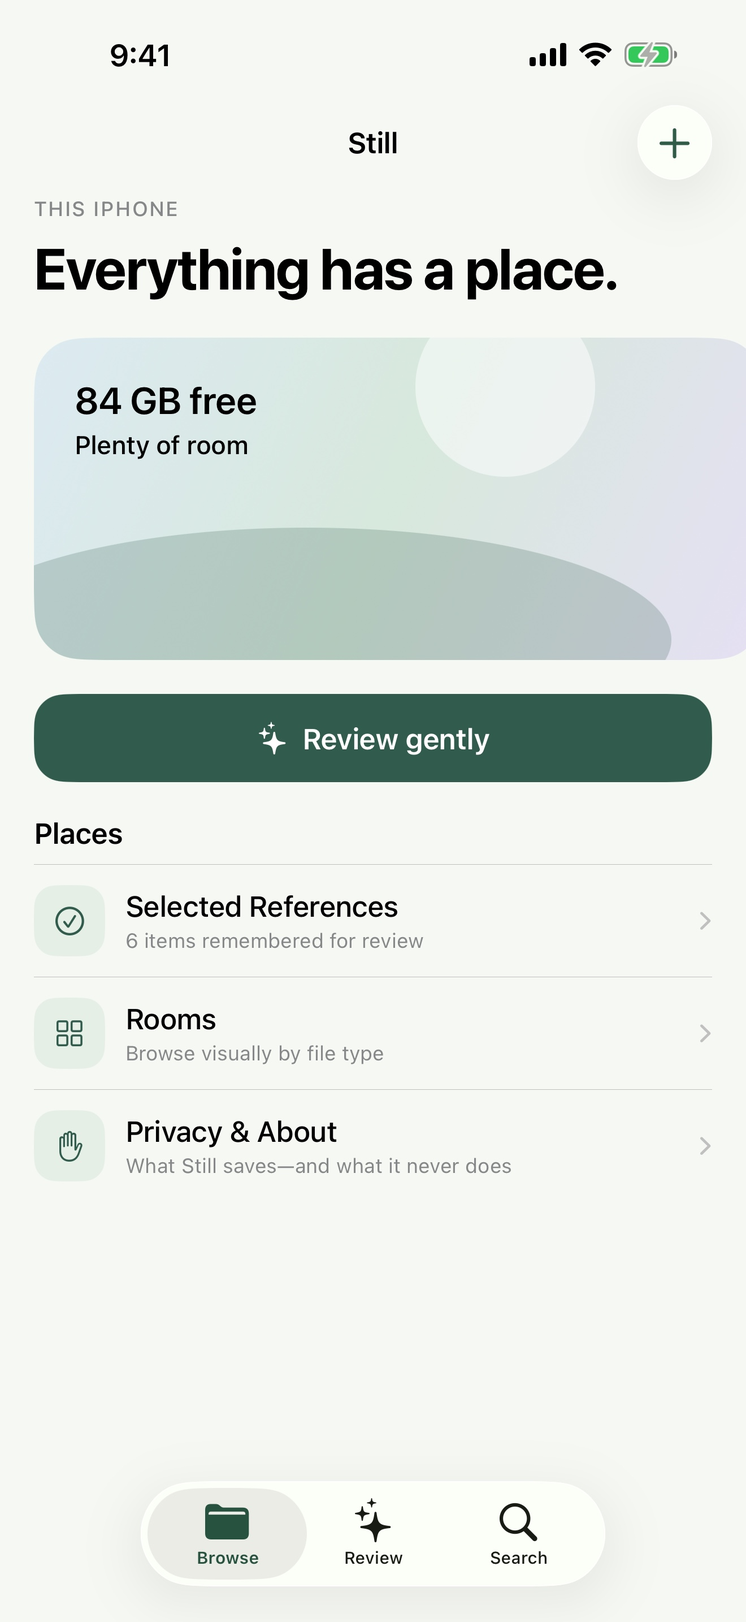
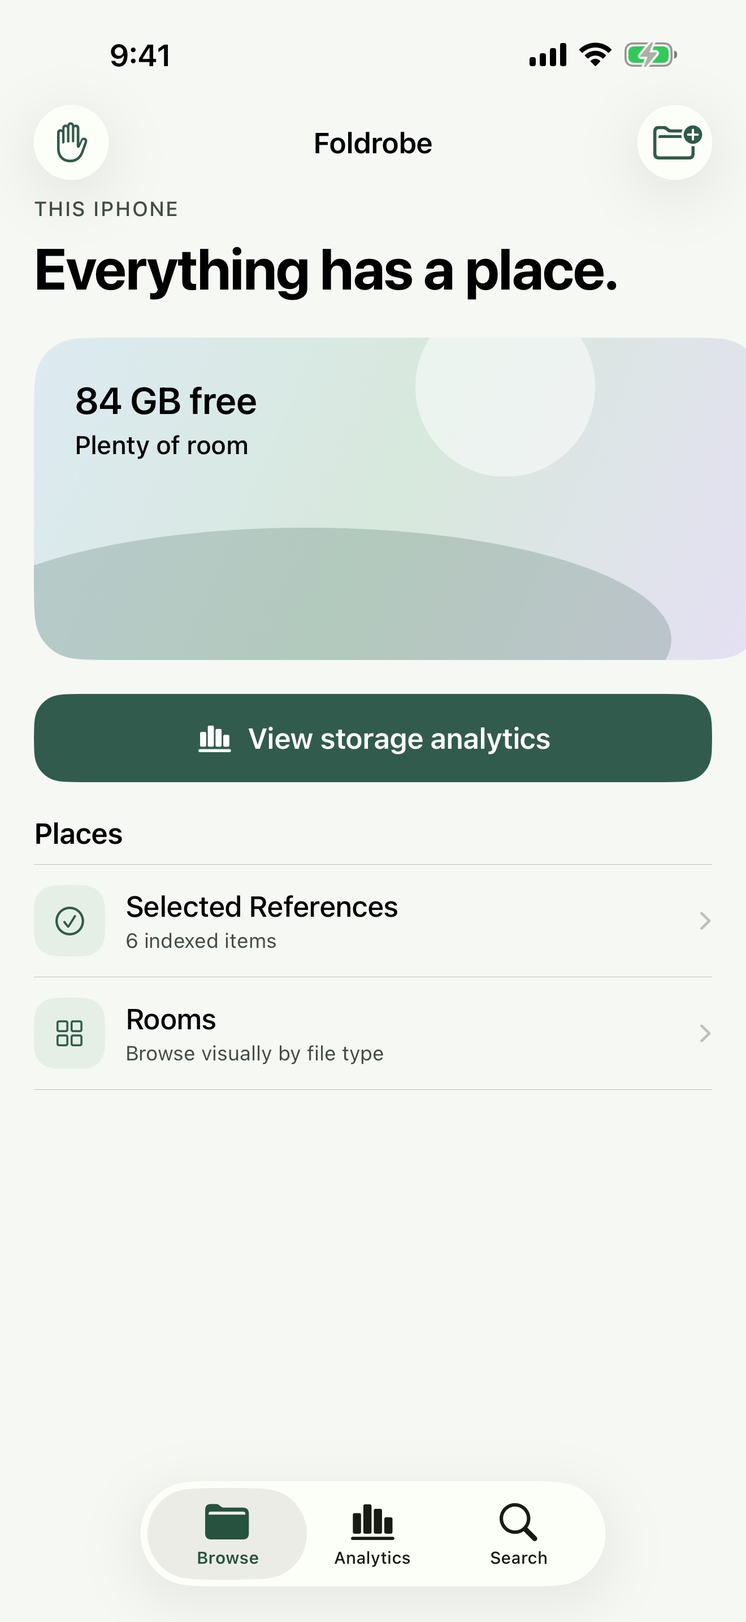
Rebrand public site to Foldrobe

diff --git a/index.html b/index.html
@@ -1,1 +1,1 @@
-<!DOCTYPE html><html lang="en"><head><meta charSet="utf-8"/><meta name="viewport" content="width=device-width, initial-scale=1"/><link rel="stylesheet" href="/still/_next/static/css/index.Bm9g5YV3.css" data-rsc-css-href="/still/_next/static/css/index.Bm9g5YV3.css" data-precedence="vite-rsc/importer-resources"/><title>Still — Calm File Review for iPhone</title><meta name="description" content="Review selected file details without the overwhelm. Still brings focused decisions, helpful filters, and on-device privacy to your iPhone."/><meta name="application-name" content="Still"/><meta property="og:title" content="Still — Calm File Review for iPhone"/><meta property="og:description" content="Make room for a clear decision."/><meta property="og:site_name" content="Still"/><meta property="og:type" content="website"/><meta property="og:image" content="https://anuljain17.github.io/still/og.png"/><meta property="og:image:width" content="1200"/><meta property="og:image:height" content="630"/><meta property="og:image:alt" content="Still — Make room for a clear decision."/><meta name="twitter:card" content="summary_large_image"/><meta name="twitter:title" content="Still — Calm File Review for iPhone"/><meta name="twitter:description" content="Make room for a clear decision."/><meta name="twitter:image" content="https://anuljain17.github.io/still/og.png"/><link rel="icon" href="/still/images/still-icon.png"/><link rel="apple-touch-icon" href="/still/images/still-icon.png"/><meta name="theme-color" content="#f4f0e7"/><meta name="color-scheme" content="light dark"/></head><body><a class="skip-link" href="#main">Skip to content</a><header class="site-header"><div class="shell header-inner"><a href="/still/" class="brand" aria-label="Still home"><img src="/still/images/still-icon.png" alt="" width="40" height="40" loading="lazy" decoding="async" data-nimg="1"/><span>Still</span></a><nav aria-label="Primary navigation"><a href="/still/#principles-title">Why Still</a><a href="/still/privacy/">Privacy</a><a href="/still/support/">Support</a></nav></div></header><main id="main"><section class="hero shell" aria-labelledby="hero-title"><div class="hero-copy"><p class="eyebrow">A quieter file review</p><h1 id="hero-title">Make room for a clear decision.</h1><p class="hero-intro">Still helps you review the files you choose, one at a time—so you can understand what matters before changing anything.</p><div class="hero-actions"><span class="button button-disabled" aria-label="Coming soon to the App Store">Coming soon to the App Store</span><p class="price">US $1.00 · One-time purchase</p></div></div><div class="hero-art" aria-label="Still app preview"><div class="sun" aria-hidden="true"></div><div class="phone phone-front"><img src="/still/images/still-browse.jpg" alt="Still Browse screen with six selected references and no cleanup controls" width="1320" height="2868" loading="eager" fetchPriority="high" decoding="async" data-nimg="1"/></div><div class="soft-shadow" aria-hidden="true"></div></div></section><section class="principles shell" aria-labelledby="principles-title"><div class="section-heading"><p class="eyebrow">A calmer rhythm</p><h2 id="principles-title">Useful, without asking for all your attention.</h2></div><div class="feature-grid"><article class="feature"><span class="feature-number" aria-hidden="true">01</span><h3>Less noise. More clarity.</h3><p>Still gives selected files room to breathe. A calm overview surfaces useful details without covering the screen in controls, charts, and warnings.</p></article><article class="feature"><span class="feature-number" aria-hidden="true">02</span><h3>One gentle decision at a time.</h3><p>Keep it. Return later. Set it aside. Still turns an intimidating backlog into a sequence of small, understandable choices—with Undo close by.</p></article><article class="feature"><span class="feature-number" aria-hidden="true">03</span><h3>Find what matters.</h3><p>Search by name or narrow the view by type, age, size, location, and download status. Choose a practical list or browse visual Rooms.</p></article></div></section><section class="review-band" aria-labelledby="review-title"><div class="shell review-layout"><div class="review-visual"><div class="phone phone-review"><img src="/still/images/still-review.jpg" alt="Still focused review showing one selected video and clear Keep, Later, and Set Aside decisions" width="1320" height="2868" loading="lazy" decoding="async" data-nimg="1"/></div></div><div class="review-copy"><p class="eyebrow">Focused review</p><h2 id="review-title">One file. One clear choice.</h2><p>Instead of a wall of checkboxes, Still shows the item that needs your attention now. Keep it, come back later, or set the decision aside—with a clear path back.</p><ul class="quiet-list"><li><span>Keep</span> Leave the original exactly where it is.</li><li><span>Later</span> Pause without losing your place.</li><li><span>Set Aside</span> Mark a decision without changing the file.</li></ul></div></div></section><section class="clarity shell" aria-labelledby="clarity-title"><div class="clarity-copy"><p class="eyebrow">Before anything changes</p><h2 id="clarity-title">Understand what Still can—and cannot—do.</h2><p>A plain-language summary keeps review decisions separate from file operations. Anything held by an external provider stays untouched.</p></div><aside class="truth-card" aria-labelledby="today-title"><span class="truth-mark" aria-hidden="true">✓</span><h3 id="today-title">What Still does today</h3><p>Still reviews metadata for files and folders you explicitly select through Apple’s document picker. References and review progress are remembered between launches in private app storage on your iPhone. If a provider withdraws access, Still asks you to select the item again.</p><p>Still does not delete or move files held by iCloud Drive or other document providers. “Set Aside” creates a review decision; complete any change later in Apple Files or the provider’s app.</p></aside></section><section class="privacy-band" aria-labelledby="privacy-title"><div class="shell privacy-layout"><div><p class="eyebrow eyebrow-light">Private by design</p><h2 id="privacy-title">Your files are not our business.</h2></div><div class="privacy-copy"><p>Still has no account, ads, or analytics. Selected file details are processed on your iPhone and are not uploaded.</p><a class="text-link text-link-light" href="/still/privacy/">Read the privacy policy <span aria-hidden="true">↗</span></a></div></div></section><section class="accessibility shell" aria-labelledby="accessibility-title"><p class="eyebrow">Comfort in every mode</p><h2 id="accessibility-title">Designed for iPhone—and for you.</h2><p>Dynamic Type, VoiceOver, dark mode, Reduce Motion, and Reduce Transparency are part of the design, not an afterthought.</p><div class="accessibility-tags" aria-label="Supported accessibility features"><span>VoiceOver</span><span>Dynamic Type</span><span>Dark mode</span><span>Reduced motion</span></div></section></main><footer class="site-footer"><div class="shell footer-inner"><div><a href="/still/" class="brand brand-footer" aria-label="Still home"><img src="/still/images/still-icon.png" alt="" width="36" height="36" loading="lazy" decoding="async" data-nimg="1"/><span>Still</span></a><p>A calmer way to review the files you choose.</p></div><div class="footer-links" aria-label="Footer navigation"><a href="/still/privacy/">Privacy</a><a href="/still/support/">Support</a></div><p class="copyright">© 2026 Anul Jain. All rights reserved.</p></div></footer></body></html>
+<!DOCTYPE html><html lang="en"><head><meta charSet="utf-8"/><meta name="viewport" content="width=device-width, initial-scale=1"/><link rel="stylesheet" href="/still/_next/static/css/index.Bm9g5YV3.css" data-rsc-css-href="/still/_next/static/css/index.Bm9g5YV3.css" data-precedence="vite-rsc/importer-resources"/><title>Foldrobe — File Organizer for iPhone</title><meta name="description" content="Allow folders once, understand what uses space, preview images, and manage matching files privately on your iPhone."/><meta name="application-name" content="Foldrobe"/><meta property="og:title" content="Foldrobe — File Organizer for iPhone"/><meta property="og:description" content="Everything in its place."/><meta property="og:site_name" content="Foldrobe"/><meta property="og:type" content="website"/><meta property="og:image" content="https://anuljain17.github.io/still/og.png"/><meta property="og:image:width" content="1200"/><meta property="og:image:height" content="630"/><meta property="og:image:alt" content="Foldrobe — Everything in its place."/><meta name="twitter:card" content="summary_large_image"/><meta name="twitter:title" content="Foldrobe — File Organizer for iPhone"/><meta name="twitter:description" content="Everything in its place."/><meta name="twitter:image" content="https://anuljain17.github.io/still/og.png"/><link rel="icon" href="/still/images/still-icon.png"/><link rel="apple-touch-icon" href="/still/images/still-icon.png"/><meta name="theme-color" content="#f4f0e7"/><meta name="color-scheme" content="light dark"/></head><body><a class="skip-link" href="#main">Skip to content</a><header class="site-header"><div class="shell header-inner"><a href="/still/" class="brand" aria-label="Foldrobe home"><img src="/still/images/still-icon.png" alt="" width="40" height="40" loading="lazy" decoding="async" data-nimg="1"/><span>Foldrobe</span></a><nav aria-label="Primary navigation"><a href="/still/#principles-title">Why Foldrobe</a><a href="/still/privacy/">Privacy</a><a href="/still/support/">Support</a></nav></div></header><main id="main"><section class="hero shell" aria-labelledby="hero-title"><div class="hero-copy"><p class="eyebrow">A digital wardrobe for your files</p><h1 id="hero-title">Everything in its place.</h1><p class="hero-intro">Foldrobe indexes the folders you allow, explains what is using space, and helps you manage clutter in deliberate batches.</p><div class="hero-actions"><span class="button button-disabled" aria-label="Coming soon to the App Store">Coming soon to the App Store</span><p class="price">US $1.00 · One-time purchase</p></div></div><div class="hero-art" aria-label="Foldrobe app preview"><div class="sun" aria-hidden="true"></div><div class="phone phone-front"><img src="/still/images/still-browse.jpg" alt="Foldrobe Browse screen showing indexed file locations" width="1320" height="2868" loading="eager" fetchPriority="high" decoding="async" data-nimg="1"/></div><div class="soft-shadow" aria-hidden="true"></div></div></section><section class="principles shell" aria-labelledby="principles-title"><div class="section-heading"><p class="eyebrow">From folder to insight</p><h2 id="principles-title">Less hunting. Better decisions.</h2></div><div class="feature-grid"><article class="feature"><span class="feature-number" aria-hidden="true">01</span><h3>Allow a folder once.</h3><p>Choose a folder with Apple’s secure picker. Foldrobe watches it while active and catches up automatically when you return.</p></article><article class="feature"><span class="feature-number" aria-hidden="true">02</span><h3>See what uses your space.</h3><p>Storage analytics rank large and old files, estimate cleanup opportunities, and flag possible duplicates by matching filename and size.</p></article><article class="feature"><span class="feature-number" aria-hidden="true">03</span><h3>Act on the whole result.</h3><p>Select files to copy, move, cut and paste, rename, or delete after a clear confirmation. Image previews help you verify first.</p></article></div></section><section class="review-band" aria-labelledby="analytics-title"><div class="shell review-layout"><div class="review-visual"><div class="phone phone-review"><img src="/still/images/still-review.jpg" alt="Foldrobe storage analytics ranking files by size and age" width="1320" height="2868" loading="lazy" decoding="async" data-nimg="1"/></div></div><div class="review-copy"><p class="eyebrow">Storage analytics</p><h2 id="analytics-title">Know what is worth checking.</h2><p>Foldrobe turns file metadata into practical cleanup signals without uploading your index or pretending that every old file should go.</p><ul class="quiet-list"><li><span>Largest</span> Start with the files using the most space.</li><li><span>Oldest</span> Surface files untouched for at least 180 days.</li><li><span>Duplicates</span> Check files with the same name and size.</li></ul></div></div></section><section class="clarity shell" aria-labelledby="clarity-title"><div class="clarity-copy"><p class="eyebrow">Permission before indexing</p><h2 id="clarity-title">You choose what Foldrobe can see.</h2><p>iOS does not allow a third-party app to scan the entire phone. You grant access to folders through Apple’s secure system picker.</p></div><aside class="truth-card" aria-labelledby="today-title"><span class="truth-mark" aria-hidden="true">✓</span><h3 id="today-title">What Foldrobe does today</h3><p>Foldrobe recursively indexes accessible files in each folder you allow. It watches for changes while active and securely remembers each folder in private app storage so it can catch up after a relaunch.</p><p>Search &amp; Manage can copy or move a selection, keep cut files ready for Paste, rename one file, or delete selected files and filename matches. Existing destination files are never overwritten.</p></aside></section><section class="privacy-band" aria-labelledby="privacy-title"><div class="shell privacy-layout"><div><p class="eyebrow eyebrow-light">Private by design</p><h2 id="privacy-title">Your files are not our business.</h2></div><div class="privacy-copy"><p>Foldrobe has no account, ads, or behavioral tracking. File metadata and image previews are processed on your iPhone and are not uploaded.</p><a class="text-link text-link-light" href="/still/privacy/">Read the privacy policy <span aria-hidden="true">↗</span></a></div></div></section><section class="accessibility shell" aria-labelledby="accessibility-title"><p class="eyebrow">Comfort in every mode</p><h2 id="accessibility-title">Designed for iPhone—and for you.</h2><p>Dynamic Type, VoiceOver, dark mode, Reduce Motion, and Reduce Transparency are part of the design, not an afterthought.</p><div class="accessibility-tags" aria-label="Supported accessibility features"><span>VoiceOver</span><span>Dynamic Type</span><span>Dark mode</span><span>Reduced motion</span></div></section></main><footer class="site-footer"><div class="shell footer-inner"><div><a href="/still/" class="brand brand-footer" aria-label="Foldrobe home"><img src="/still/images/still-icon.png" alt="" width="36" height="36" loading="lazy" decoding="async" data-nimg="1"/><span>Foldrobe</span></a><p>A digital wardrobe for the folders you choose.</p></div><div class="footer-links" aria-label="Footer navigation"><a href="/still/privacy/">Privacy</a><a href="/still/support/">Support</a></div><p class="copyright">© 2026 Anul Jain. All rights reserved.</p></div></footer></body></html>

diff --git a/privacy/index.html b/privacy/index.html
@@ -1,1 +1,1 @@
-<!DOCTYPE html><html lang="en"><head><meta charSet="utf-8"/><meta name="viewport" content="width=device-width, initial-scale=1"/><link rel="stylesheet" href="/still/_next/static/css/index.Bm9g5YV3.css" data-rsc-css-href="/still/_next/static/css/index.Bm9g5YV3.css" data-precedence="vite-rsc/importer-resources"/><title>Privacy Policy — Still</title><meta name="description" content="How Still handles selected file metadata on your iPhone."/><meta name="application-name" content="Still"/><meta property="og:title" content="Still — Calm File Review for iPhone"/><meta property="og:description" content="Make room for a clear decision."/><meta property="og:site_name" content="Still"/><meta property="og:type" content="website"/><meta property="og:image" content="https://anuljain17.github.io/still/og.png"/><meta property="og:image:width" content="1200"/><meta property="og:image:height" content="630"/><meta property="og:image:alt" content="Still — Make room for a clear decision."/><meta name="twitter:card" content="summary_large_image"/><meta name="twitter:title" content="Still — Calm File Review for iPhone"/><meta name="twitter:description" content="Make room for a clear decision."/><meta name="twitter:image" content="https://anuljain17.github.io/still/og.png"/><link rel="icon" href="/still/images/still-icon.png"/><link rel="apple-touch-icon" href="/still/images/still-icon.png"/><meta name="theme-color" content="#f4f0e7"/><meta name="color-scheme" content="light dark"/></head><body><a class="skip-link" href="#main">Skip to content</a><header class="site-header"><div class="shell header-inner"><a href="/still/" class="brand" aria-label="Still home"><img src="/still/images/still-icon.png" alt="" width="40" height="40" loading="lazy" decoding="async" data-nimg="1"/><span>Still</span></a><nav aria-label="Primary navigation"><a href="/still/#principles-title">Why Still</a><a href="/still/privacy/">Privacy</a><a href="/still/support/">Support</a></nav></div></header><main class="legal-main" id="main"><header class="legal-hero shell"><p class="eyebrow">Privacy, in plain language</p><h1>Still Privacy Policy</h1><p>Effective August 15, 2026 · Last updated August 15, 2026</p></header><div class="legal-body shell"><p class="legal-note">Still is designed to review selected file information privately on your device. This policy explains the data practices of the current release.</p><section><h2>Information handled by the app</h2><p>When you explicitly choose files or folders through Apple’s document picker, Still reads metadata needed for the review experience. This may include an item’s name, type, size, modification date, directory status, and whether an iCloud item has a local copy.</p><p>Still does not read or upload the contents of selected files.</p></section><section><h2>How information is used</h2><p>The metadata is used only to display, search, filter, sort, and review the items you selected.</p></section><section><h2>Storage and retention</h2><p>Selected metadata, a system file reference, and review progress are saved in the app’s private storage so your library can continue after a relaunch. Still excludes this review library from device backups, and the information is not stored on our servers. Still balances temporary security-scoped access whenever it checks a saved reference, and access may become unavailable if a file moves or a provider changes permission.</p><p>Delete Still from your iPhone to remove those saved references and review records. Deleting Still does not delete the original files.</p></section><section><h2>External file changes</h2><p>Still does not delete, move, rename, or otherwise modify files selected from iCloud Drive or another external document provider. Review decisions such as Keep, Later, and Set Aside do not alter the original item.</p></section><section><h2>Data collection</h2><p>The current version of Still:</p><ul><li>Does not require an account.</li><li>Does not include advertising.</li><li>Does not include analytics or tracking SDKs.</li><li>Does not sell or share personal information.</li><li>Does not transmit selected file metadata off your device.</li></ul></section><section><h2>Children’s privacy</h2><p>Still does not knowingly collect personal information from children or any other user.</p></section><section><h2>Website hosting</h2><p>This website is hosted by GitHub Pages. GitHub may process standard request information under its own privacy terms. Still does not add website analytics, advertising, tracking pixels, or contact forms.</p></section><section><h2>Developer and contact</h2><p>Still is provided by <!-- -->Anul Jain<!-- -->, based in <!-- -->India<!-- -->. For privacy questions, email<!-- --> <a href="mailto:support@wristaudiooffline.app?subject=Privacy%20for%20Still">support@wristaudiooffline.app</a>.</p></section><section><h2>Changes to this policy</h2><p>If Still’s data practices change, this policy and the App Store privacy disclosures will be updated before the affected version is released.</p></section></div></main><footer class="site-footer"><div class="shell footer-inner"><div><a href="/still/" class="brand brand-footer" aria-label="Still home"><img src="/still/images/still-icon.png" alt="" width="36" height="36" loading="lazy" decoding="async" data-nimg="1"/><span>Still</span></a><p>A calmer way to review the files you choose.</p></div><div class="footer-links" aria-label="Footer navigation"><a href="/still/privacy/">Privacy</a><a href="/still/support/">Support</a></div><p class="copyright">© 2026 Anul Jain. All rights reserved.</p></div></footer></body></html>
+<!DOCTYPE html><html lang="en"><head><meta charSet="utf-8"/><meta name="viewport" content="width=device-width, initial-scale=1"/><link rel="stylesheet" href="/still/_next/static/css/index.Bm9g5YV3.css" data-rsc-css-href="/still/_next/static/css/index.Bm9g5YV3.css" data-precedence="vite-rsc/importer-resources"/><title>Privacy Policy — Foldrobe</title><meta name="description" content="How Foldrobe handles allowed-folder metadata and image previews on your iPhone."/><meta name="application-name" content="Foldrobe"/><meta property="og:title" content="Foldrobe — File Organizer for iPhone"/><meta property="og:description" content="Everything in its place."/><meta property="og:site_name" content="Foldrobe"/><meta property="og:type" content="website"/><meta property="og:image" content="https://anuljain17.github.io/still/og.png"/><meta property="og:image:width" content="1200"/><meta property="og:image:height" content="630"/><meta property="og:image:alt" content="Foldrobe — Everything in its place."/><meta name="twitter:card" content="summary_large_image"/><meta name="twitter:title" content="Foldrobe — File Organizer for iPhone"/><meta name="twitter:description" content="Everything in its place."/><meta name="twitter:image" content="https://anuljain17.github.io/still/og.png"/><link rel="icon" href="/still/images/still-icon.png"/><link rel="apple-touch-icon" href="/still/images/still-icon.png"/><meta name="theme-color" content="#f4f0e7"/><meta name="color-scheme" content="light dark"/></head><body><a class="skip-link" href="#main">Skip to content</a><header class="site-header"><div class="shell header-inner"><a href="/still/" class="brand" aria-label="Foldrobe home"><img src="/still/images/still-icon.png" alt="" width="40" height="40" loading="lazy" decoding="async" data-nimg="1"/><span>Foldrobe</span></a><nav aria-label="Primary navigation"><a href="/still/#principles-title">Why Foldrobe</a><a href="/still/privacy/">Privacy</a><a href="/still/support/">Support</a></nav></div></header><main class="legal-main" id="main"><header class="legal-hero shell"><p class="eyebrow">Privacy, in plain language</p><h1>Foldrobe Privacy Policy</h1><p>Effective August 23, 2026 · Last updated August 23, 2026</p></header><div class="legal-body shell"><p class="legal-note">Foldrobe is designed to organize allowed-folder information privately on your device. This policy explains the data practices of the current release.</p><section><h2>Information handled by the app</h2><p>When you explicitly choose a folder through Apple’s document picker, Foldrobe recursively reads metadata for accessible files inside that folder. This may include an item’s name, type, size, modification date, and whether an iCloud item has a local copy.</p><p>Foldrobe reads image bytes to render previews. When you request copy, move, rename, or deletion, Apple’s coordinated file APIs perform that operation locally on the selected files. Foldrobe does not upload file contents or indexed metadata.</p></section><section><h2>How information is used</h2><p>Metadata is used only to index, display, search, filter, sort, and produce storage analytics for files inside folders you allowed.</p></section><section><h2>Storage and retention</h2><p>Indexed metadata and secure system file references are saved in the app’s private storage so Foldrobe can watch authorized folders while active and rescan after a relaunch. Foldrobe excludes this file index from device backups, and the information is not stored on our servers. Foldrobe balances temporary security-scoped access whenever it checks a saved reference, and access may become unavailable if a file moves or a provider changes permission.</p><p>Delete Foldrobe from your iPhone to remove its saved references and index. Deleting the app itself does not delete the original files.</p></section><section><h2>File operations</h2><p>Foldrobe copies, moves, cuts/pastes, or renames files only after you initiate the action and choose a destination or new name. It never overwrites a same-named destination. Deletion requires explicit confirmation and removes files from their original folder. Whether recovery is available depends on iCloud Drive or the external provider.</p></section><section><h2>Data collection</h2><p>The current version of Foldrobe:</p><ul><li>Does not require an account.</li><li>Does not include advertising.</li><li>Does not include analytics or tracking SDKs.</li><li>Does not sell or share personal information.</li><li>Does not transmit selected file metadata off your device.</li></ul></section><section><h2>Children’s privacy</h2><p>Foldrobe does not knowingly collect personal information from children or any other user.</p></section><section><h2>Website hosting</h2><p>This website is hosted by GitHub Pages. GitHub may process standard request information under its own privacy terms. Foldrobe does not add website analytics, advertising, tracking pixels, or contact forms.</p></section><section><h2>Developer and contact</h2><p>Foldrobe is provided by <!-- -->Anul Jain<!-- -->, based in <!-- -->India<!-- -->. For privacy questions, email<!-- --> <a href="mailto:support@wristaudiooffline.app?subject=Privacy%20for%20Foldrobe">support@wristaudiooffline.app</a>.</p></section><section><h2>Changes to this policy</h2><p>If Foldrobe’s data practices change, this policy and the App Store privacy disclosures will be updated before the affected version is released.</p></section></div></main><footer class="site-footer"><div class="shell footer-inner"><div><a href="/still/" class="brand brand-footer" aria-label="Foldrobe home"><img src="/still/images/still-icon.png" alt="" width="36" height="36" loading="lazy" decoding="async" data-nimg="1"/><span>Foldrobe</span></a><p>A digital wardrobe for the folders you choose.</p></div><div class="footer-links" aria-label="Footer navigation"><a href="/still/privacy/">Privacy</a><a href="/still/support/">Support</a></div><p class="copyright">© 2026 Anul Jain. All rights reserved.</p></div></footer></body></html>

diff --git a/support/index.html b/support/index.html
@@ -1,1 +1,1 @@
-<!DOCTYPE html><html lang="en"><head><meta charSet="utf-8"/><meta name="viewport" content="width=device-width, initial-scale=1"/><link rel="stylesheet" href="/still/_next/static/css/index.Bm9g5YV3.css" data-rsc-css-href="/still/_next/static/css/index.Bm9g5YV3.css" data-precedence="vite-rsc/importer-resources"/><title>Support — Still</title><meta name="description" content="Getting started, answers, and current-release boundaries for Still."/><meta name="application-name" content="Still"/><meta property="og:title" content="Still — Calm File Review for iPhone"/><meta property="og:description" content="Make room for a clear decision."/><meta property="og:site_name" content="Still"/><meta property="og:type" content="website"/><meta property="og:image" content="https://anuljain17.github.io/still/og.png"/><meta property="og:image:width" content="1200"/><meta property="og:image:height" content="630"/><meta property="og:image:alt" content="Still — Make room for a clear decision."/><meta name="twitter:card" content="summary_large_image"/><meta name="twitter:title" content="Still — Calm File Review for iPhone"/><meta name="twitter:description" content="Make room for a clear decision."/><meta name="twitter:image" content="https://anuljain17.github.io/still/og.png"/><link rel="icon" href="/still/images/still-icon.png"/><link rel="apple-touch-icon" href="/still/images/still-icon.png"/><meta name="theme-color" content="#f4f0e7"/><meta name="color-scheme" content="light dark"/></head><body><a class="skip-link" href="#main">Skip to content</a><header class="site-header"><div class="shell header-inner"><a href="/still/" class="brand" aria-label="Still home"><img src="/still/images/still-icon.png" alt="" width="40" height="40" loading="lazy" decoding="async" data-nimg="1"/><span>Still</span></a><nav aria-label="Primary navigation"><a href="/still/#principles-title">Why Still</a><a href="/still/privacy/">Privacy</a><a href="/still/support/">Support</a></nav></div></header><main class="legal-main" id="main"><header class="legal-hero shell"><p class="eyebrow">Help, without the maze</p><h1>Still Support</h1><p>A calm companion for reviewing file details on iPhone.</p></header><div class="legal-body shell"><section><h2>Getting started</h2><ol><li>Open Browse and tap <strong>Add References</strong>.</li><li>Choose files or folders in Apple’s document picker.</li><li>Use Review for one-at-a-time decisions.</li><li>Use Search to narrow the view with filters.</li></ol></section><section><h2>Current release</h2><ul><li>Selected references and review progress are remembered between launches in Still’s private app storage.</li><li>Still does not delete or move files selected from iCloud Drive or another document provider.</li><li>Keep, Later, and Set Aside are review decisions. They do not modify the original file.</li><li>Use Apple Files or the source provider’s app to complete a move or deletion.</li></ul></section><section><h2>Frequently asked questions</h2><h3>Did Still delete my file?</h3><p>No. The current release does not delete or move files selected through Apple’s document picker.</p><h3>Why does Still ask me to select an item again?</h3><p>A file may have moved, been removed, or its provider permission is no longer available. Choose the item again in Apple’s picker to restore access. Still does not change the file.</p><h3>How do I remove saved references?</h3><p>Delete Still from your iPhone to remove its private review library. Your original files remain untouched.</p><h3>Does Still upload my file details?</h3><p>No. Selected metadata is processed locally on your iPhone.</p><h3>Does Still read my file contents?</h3><p>No. Still reads only the metadata needed for review, such as name, size, type, and modification date.</p><h3>Can I undo a review choice?</h3><p>Yes. Use Undo during the focused review flow.</p></section><section><h2>Accessibility</h2><p>Still supports VoiceOver, Dynamic Type, dark mode, Reduce Motion, and Reduce Transparency.</p></section><section><h2>Contact</h2><p>For Support for Still, email<!-- --> <a href="mailto:support@wristaudiooffline.app?subject=Support%20for%20Still">support@wristaudiooffline.app</a>. Include your iPhone model, iOS version, and the steps that led to the problem. Please never attach private files or sensitive file contents.</p></section></div></main><footer class="site-footer"><div class="shell footer-inner"><div><a href="/still/" class="brand brand-footer" aria-label="Still home"><img src="/still/images/still-icon.png" alt="" width="36" height="36" loading="lazy" decoding="async" data-nimg="1"/><span>Still</span></a><p>A calmer way to review the files you choose.</p></div><div class="footer-links" aria-label="Footer navigation"><a href="/still/privacy/">Privacy</a><a href="/still/support/">Support</a></div><p class="copyright">© 2026 Anul Jain. All rights reserved.</p></div></footer></body></html>
+<!DOCTYPE html><html lang="en"><head><meta charSet="utf-8"/><meta name="viewport" content="width=device-width, initial-scale=1"/><link rel="stylesheet" href="/still/_next/static/css/index.Bm9g5YV3.css" data-rsc-css-href="/still/_next/static/css/index.Bm9g5YV3.css" data-precedence="vite-rsc/importer-resources"/><title>Support — Foldrobe</title><meta name="description" content="Getting started, folder permissions, analytics, previews, and bulk operations for Foldrobe."/><meta name="application-name" content="Foldrobe"/><meta property="og:title" content="Foldrobe — File Organizer for iPhone"/><meta property="og:description" content="Everything in its place."/><meta property="og:site_name" content="Foldrobe"/><meta property="og:type" content="website"/><meta property="og:image" content="https://anuljain17.github.io/still/og.png"/><meta property="og:image:width" content="1200"/><meta property="og:image:height" content="630"/><meta property="og:image:alt" content="Foldrobe — Everything in its place."/><meta name="twitter:card" content="summary_large_image"/><meta name="twitter:title" content="Foldrobe — File Organizer for iPhone"/><meta name="twitter:description" content="Everything in its place."/><meta name="twitter:image" content="https://anuljain17.github.io/still/og.png"/><link rel="icon" href="/still/images/still-icon.png"/><link rel="apple-touch-icon" href="/still/images/still-icon.png"/><meta name="theme-color" content="#f4f0e7"/><meta name="color-scheme" content="light dark"/></head><body><a class="skip-link" href="#main">Skip to content</a><header class="site-header"><div class="shell header-inner"><a href="/still/" class="brand" aria-label="Foldrobe home"><img src="/still/images/still-icon.png" alt="" width="40" height="40" loading="lazy" decoding="async" data-nimg="1"/><span>Foldrobe</span></a><nav aria-label="Primary navigation"><a href="/still/#principles-title">Why Foldrobe</a><a href="/still/privacy/">Privacy</a><a href="/still/support/">Support</a></nav></div></header><main class="legal-main" id="main"><header class="legal-hero shell"><p class="eyebrow">Help, without the maze</p><h1>Foldrobe Support</h1><p>A digital wardrobe for organizing files on iPhone.</p></header><div class="legal-body shell"><section><h2>Getting started</h2><ol><li>Open Browse and tap <strong>Add Folder</strong>.</li><li>Choose one or more folders in Apple’s secure document picker.</li><li>Use Analytics to inspect large, old, and possibly duplicated files.</li><li>Use Search &amp; Manage to select files for copy, move, cut/paste, rename, or deletion.</li></ol></section><section><h2>Current release</h2><ul><li>Allowed-folder references and indexed metadata are remembered in Foldrobe’s private app storage.</li><li>Foldrobe watches authorized folders while active and rescans whenever it returns to the foreground.</li><li>Images are read locally to render previews and are not uploaded.</li><li>Copy, move, cut/paste, and rename never overwrite an existing destination file.</li><li>Deletion requires an explicit confirmation and removes files from their original folder.</li></ul></section><section><h2>Frequently asked questions</h2><h3>How do bulk filename operations work?</h3><p>Enter a filename phrase in Search, then choose Delete all filenames containing that phrase. Foldrobe shows the number of matching files and asks you to confirm before deletion.</p><h3>How do I copy, move, cut, paste, or rename files?</h3><p>In Search &amp; Manage, tap Select and choose one or more indexed files. Open File actions to copy or move them into an authorized folder, or Cut them and use Paste. Rename is available when exactly one file is selected.</p><h3>Why does Foldrobe ask me to select a folder again?</h3><p>The folder may have moved, been removed, or its provider permission is no longer available. Choose the folder again in Apple’s picker to restore access.</p><h3>How do I remove the saved index?</h3><p>Delete Foldrobe from your iPhone to remove its private file index. Deleting the app does not delete original files.</p><h3>Does Foldrobe upload my file details?</h3><p>No. Selected metadata is processed locally on your iPhone.</p><h3>Why is an image preview unavailable?</h3><p>The image may be larger than the preview safety limit, stored only in the cloud, unsupported, or no longer covered by the saved provider permission. Refresh the folder and try again.</p></section><section><h2>Accessibility</h2><p>Foldrobe supports VoiceOver, Dynamic Type, dark mode, Reduce Motion, and Reduce Transparency.</p></section><section><h2>Contact</h2><p>For Support for Foldrobe, email<!-- --> <a href="mailto:support@wristaudiooffline.app?subject=Support%20for%20Foldrobe">support@wristaudiooffline.app</a>. Include your iPhone model, iOS version, and the steps that led to the problem. Please never attach private files or sensitive file contents.</p></section></div></main><footer class="site-footer"><div class="shell footer-inner"><div><a href="/still/" class="brand brand-footer" aria-label="Foldrobe home"><img src="/still/images/still-icon.png" alt="" width="36" height="36" loading="lazy" decoding="async" data-nimg="1"/><span>Foldrobe</span></a><p>A digital wardrobe for the folders you choose.</p></div><div class="footer-links" aria-label="Footer navigation"><a href="/still/privacy/">Privacy</a><a href="/still/support/">Support</a></div><p class="copyright">© 2026 Anul Jain. All rights reserved.</p></div></footer></body></html>
